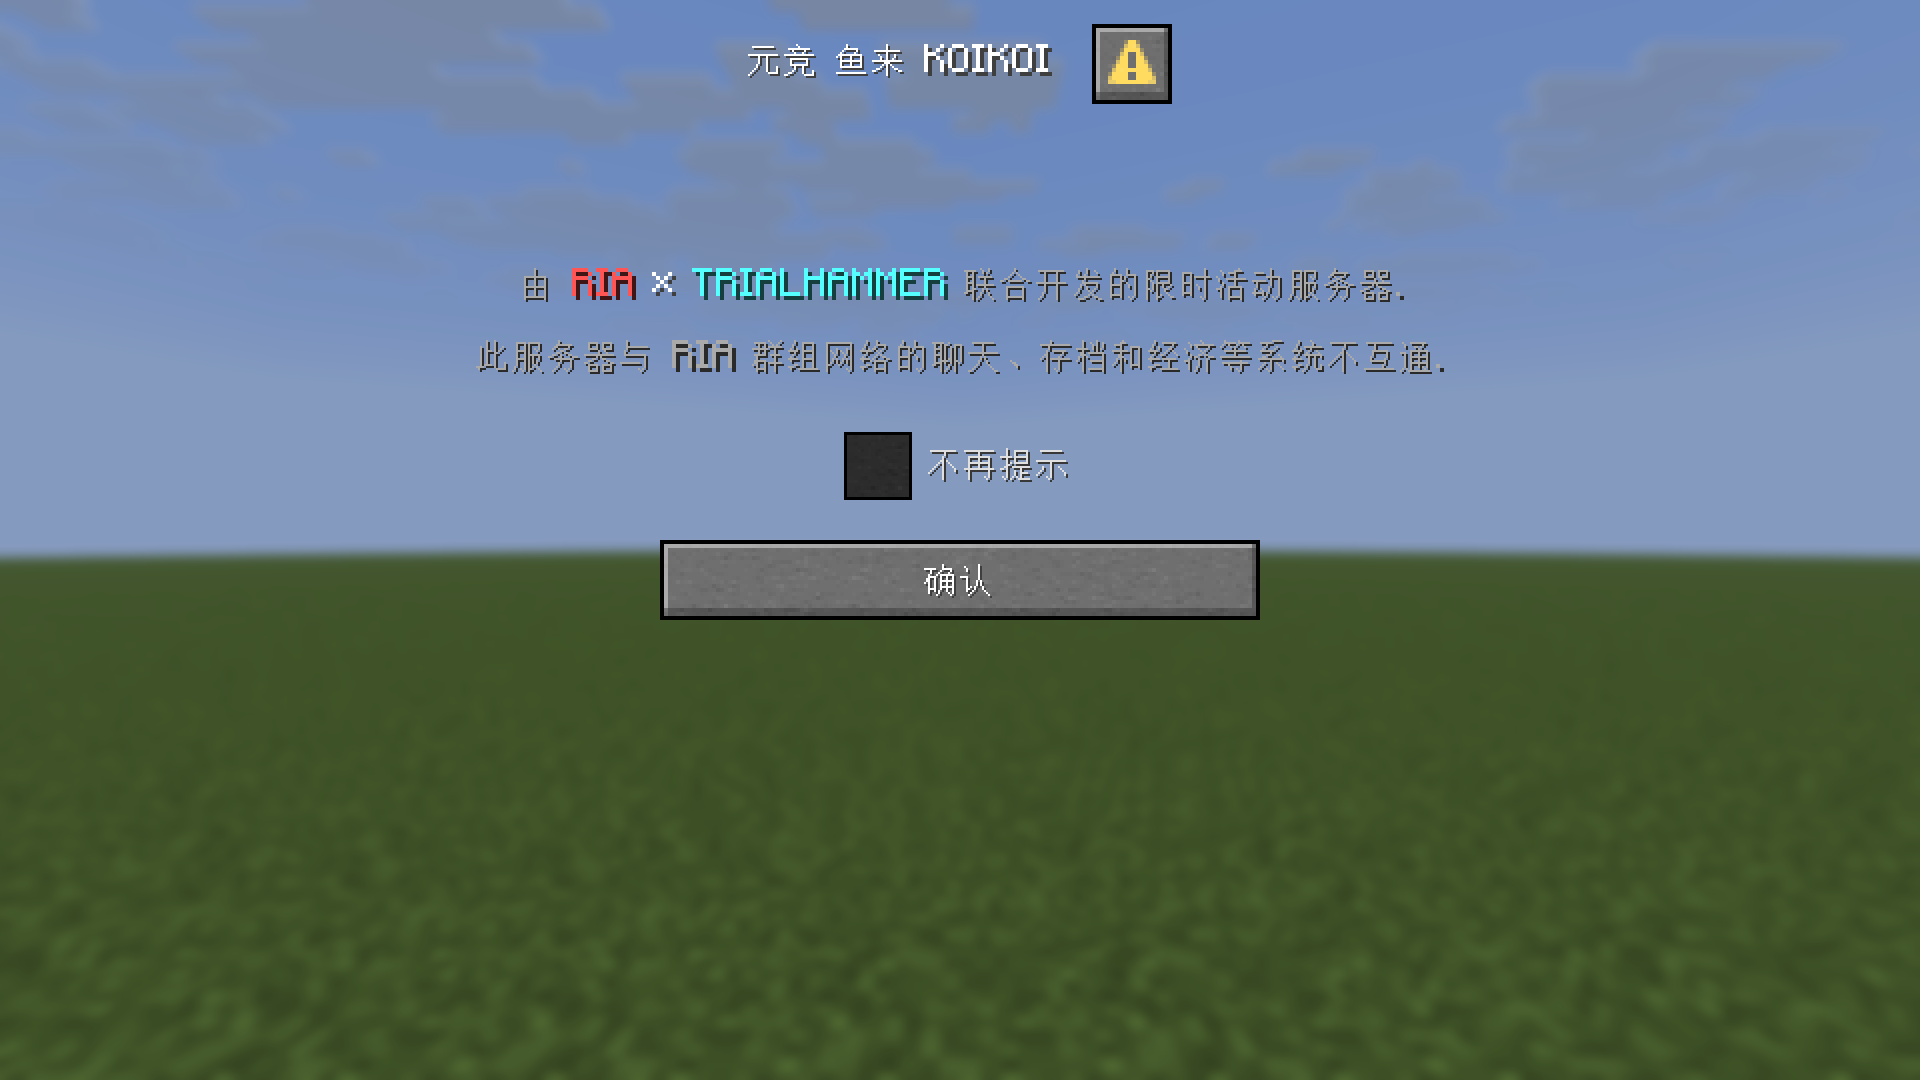
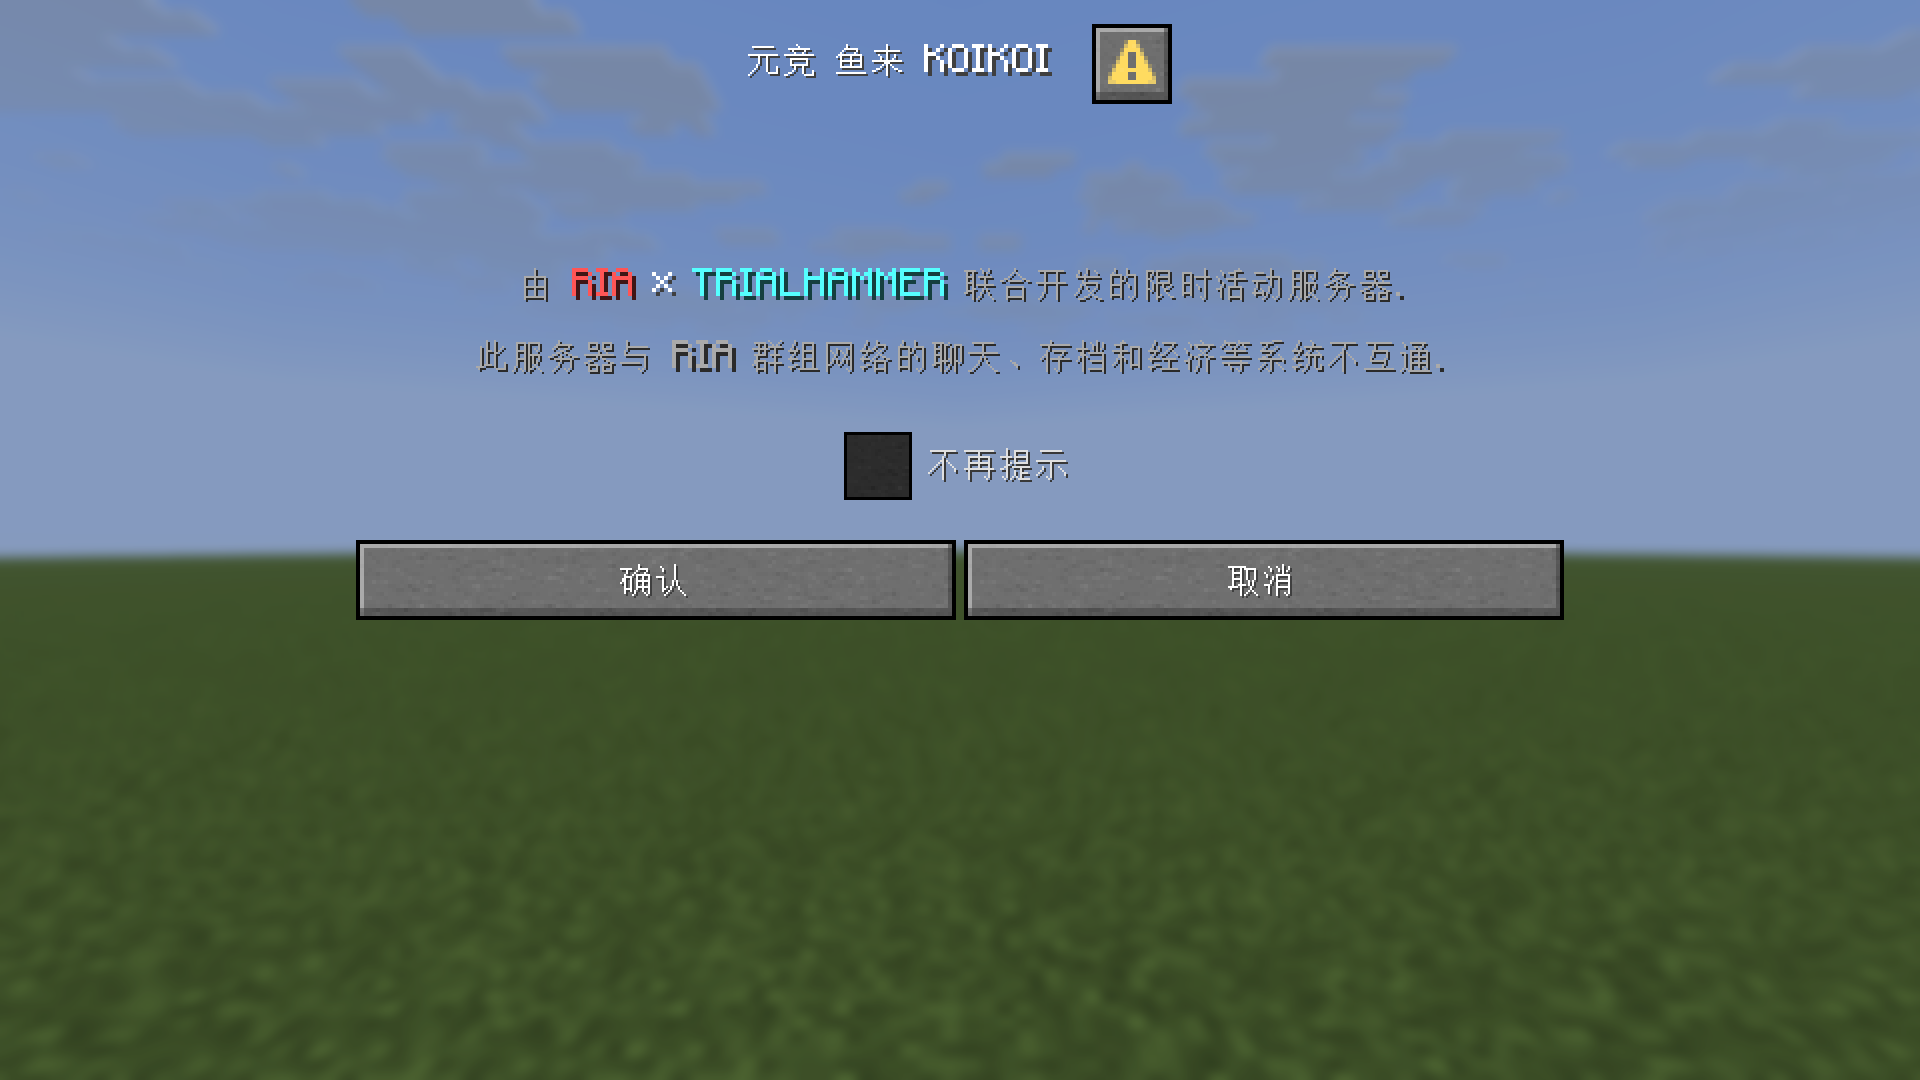
对话框增加取消按钮：取消即踢出玩家返回云端

diff --git a/src/main/java/red/ria/zthevent2611/message/NoticeDialogService.java b/src/main/java/red/ria/zthevent2611/message/NoticeDialogService.java
@@ -19,7 +19,7 @@ import red.ria.zthevent2611.data.NoticeStore;
 /**
  * 进服提示对话框：「不再提示」复选框 + 确认按钮。
  *
- * <p>对话框在配置应用时构建一次。确认按钮使用固定的自定义动作 {@link #CONFIRM_KEY}，
+ * <p>对话框在配置应用时构建一次。确认 / 取消按钮使用固定的自定义动作（{@link #CONFIRM_KEY}、{@link #CANCEL_KEY}），
  * 由 {@link NoticeDialogListener} 监听 {@code PlayerCustomClickEvent} 处理——这样同一个对话框
  * 可以被任意多玩家、任意多次点击，不像一次性点击回调那样在第一次点击后失效。
  */
@@ -30,6 +30,9 @@ public final class NoticeDialogService {
 
     /** 确认按钮的自定义动作标识。 */
     public static final Key CONFIRM_KEY = Key.key("zthevent2611", "notice_confirm");
+
+    /** 取消按钮的自定义动作标识。 */
+    public static final Key CANCEL_KEY = Key.key("zthevent2611", "notice_cancel");
 
     private final Plugin plugin;
     private final NoticeStore noticeStore;
@@ -115,6 +118,26 @@ public final class NoticeDialogService {
         }, null, 1L);
     }
 
+    /**
+     * 处理玩家点击取消：踢出玩家（由其所在群组网络自动带回云端），不开始跨服流程。
+     *
+     * <p>由 {@link NoticeDialogListener} 在收到 {@code PlayerCustomClickEvent} 时调用。
+     */
+    public void handleCancel(Player player) {
+        NoticeDialog current = config;
+        player.getScheduler().execute(plugin, () -> {
+            if (!player.isOnline()) {
+                return;
+            }
+            plugin.getLogger().info(() -> "玩家 " + player.getName() + " 取消了进服提示，已踢出（返回云端）");
+            if (current != null) {
+                player.kick(current.cancelKickMessage());
+            } else {
+                player.kick();
+            }
+        }, null, 1L);
+    }
+
     private void sendBodyToChat(Player player, NoticeDialog current) {
         if (current == null) {
             return;
@@ -128,6 +151,10 @@ public final class NoticeDialogService {
         ActionButton confirm = ActionButton.builder(initial.confirmLabel())
                 .tooltip(initial.confirmTooltip())
                 .action(DialogAction.customClick(CONFIRM_KEY, null))
+                .build();
+        ActionButton cancel = ActionButton.builder(initial.cancelLabel())
+                .tooltip(initial.cancelTooltip())
+                .action(DialogAction.customClick(CANCEL_KEY, null))
                 .build();
 
         DialogBase base = DialogBase.builder(initial.title())
@@ -144,7 +171,8 @@ public final class NoticeDialogService {
 
         return Dialog.create(factory -> factory.empty()
                 .base(base)
-                .type(DialogType.multiAction(List.of(confirm), null, 1)));
+                .type(DialogType.multiAction(List.of(confirm, cancel), null, 2)));
     }
 }
+
 

diff --git a/src/main/java/red/ria/zthevent2611/config/NoticeDialog.java b/src/main/java/red/ria/zthevent2611/config/NoticeDialog.java
@@ -8,8 +8,9 @@ import org.bukkit.configuration.file.FileConfiguration;
 /**
  * 进服提示对话框的配置。
  *
- * <p>对话框由正文、「不再提示」复选框（默认不勾选）和确认按钮组成；玩家确认后才开始跨服流程，
- * 因此提示不会在跨服过程中被聊天栏清掉。
+ * <p>对话框由正文、「不再提示」复选框（默认不勾选）、确认与取消按钮组成；
+ * 玩家确认后才开始跨服流程，因此提示不会在跨服过程中被聊天栏清掉；
+ * 点击取消会踢出玩家（由其所在群组网络自动带回云端），不开始跨服流程。
  *
  * @param title 对话框标题
  * @param bodyLines 对话框正文的每一行
@@ -20,7 +21,10 @@ import org.bukkit.configuration.file.FileConfiguration;
  * @param checkboxOnFalse 未勾选时提交的值
  * @param confirmLabel 确认按钮文字
  * @param confirmTooltip 确认按钮的悬停提示
- * @param canCloseWithEscape 是否允许按 Esc 关闭对话框；{@code false} 时必须点击确认
+ * @param cancelLabel 取消按钮文字
+ * @param cancelTooltip 取消按钮的悬停提示
+ * @param cancelKickMessage 点击取消后踢出玩家时显示的消息
+ * @param canCloseWithEscape 是否允许按 Esc 关闭对话框；{@code false} 时必须点击按钮
  */
 public record NoticeDialog(
         Component title,
@@ -32,6 +36,9 @@ public record NoticeDialog(
         String checkboxOnFalse,
         Component confirmLabel,
         Component confirmTooltip,
+        Component cancelLabel,
+        Component cancelTooltip,
+        Component cancelKickMessage,
         boolean canCloseWithEscape
 ) {
 
@@ -90,10 +97,17 @@ public record NoticeDialog(
                 "messages.dialog.confirm.label", "确认");
         Component confirmTooltip = PluginSettings.miniMessage(config,
                 "messages.dialog.confirm.tooltip", "<gray>点击确认后开始跨服流程.</gray>");
+        Component cancelLabel = PluginSettings.miniMessage(config,
+                "messages.dialog.cancel.label", "取消");
+        Component cancelTooltip = PluginSettings.miniMessage(config,
+                "messages.dialog.cancel.tooltip", "<gray>取消并返回云端.</gray>");
+        Component cancelKickMessage = PluginSettings.miniMessage(config,
+                "messages.dialog.cancel.kick-message", "<gray>已取消，正在返回云端.</gray>");
         boolean canCloseWithEscape = config.getBoolean("messages.dialog.can-close-with-escape", false);
 
         return new NoticeDialog(title, bodyLines, checkboxKey, checkboxLabel, checkboxInitial,
-                checkboxOnTrue, checkboxOnFalse, confirmLabel, confirmTooltip, canCloseWithEscape);
+                checkboxOnTrue, checkboxOnFalse, confirmLabel, confirmTooltip,
+                cancelLabel, cancelTooltip, cancelKickMessage, canCloseWithEscape);
     }
 
     private static boolean isBlankLine(String line) {

diff --git a/src/main/java/red/ria/zthevent2611/listener/NoticeDialogListener.java b/src/main/java/red/ria/zthevent2611/listener/NoticeDialogListener.java
@@ -3,6 +3,7 @@ package red.ria.zthevent2611.listener;
 import io.papermc.paper.connection.PlayerGameConnection;
 import io.papermc.paper.dialog.DialogResponseView;
 import io.papermc.paper.event.player.PlayerCustomClickEvent;
+import net.kyori.adventure.key.Key;
 import org.bukkit.entity.Player;
 import org.bukkit.event.EventHandler;
 import org.bukkit.event.EventPriority;
@@ -11,10 +12,11 @@ import red.ria.zthevent2611.flow.TransferFlowManager;
 import red.ria.zthevent2611.message.NoticeDialogService;
 
 /**
- * 处理进服提示对话框的确认按钮。
+ * 处理进服提示对话框的确认与取消按钮。
  *
  * <p>对话框按钮使用固定的自定义动作标识，通过 {@code PlayerCustomClickEvent} 接收点击；
  * 因此同一个对话框可以被任意多玩家、任意多次点击，不受一次性回调限制。
+ * 确认后开始跨服流程；取消则踢出玩家（由其所在群组网络自动带回云端）。
  */
 public final class NoticeDialogListener implements Listener {
 
@@ -28,7 +30,13 @@ public final class NoticeDialogListener implements Listener {
 
     @EventHandler(priority = EventPriority.NORMAL)
     public void onCustomClick(PlayerCustomClickEvent event) {
-        if (!NoticeDialogService.CONFIRM_KEY.equals(event.getIdentifier())) {
+        Key identifier = event.getIdentifier();
+        boolean confirm;
+        if (NoticeDialogService.CONFIRM_KEY.equals(identifier)) {
+            confirm = true;
+        } else if (NoticeDialogService.CANCEL_KEY.equals(identifier)) {
+            confirm = false;
+        } else {
             return;
         }
         if (!(event.getCommonConnection() instanceof PlayerGameConnection connection)) {
@@ -39,8 +47,12 @@ public final class NoticeDialogListener implements Listener {
         if (player == null) {
             return;
         }
+        if (!confirm) {
+            noticeDialogs.handleCancel(player);
+            return;
+        }
         DialogResponseView response = event.getDialogResponseView();
-        boolean confirmed = noticeDialogs.isCheckboxChecked(response);
-        noticeDialogs.handleConfirm(player, confirmed, () -> flows.startAfterConfirm(player));
+        boolean dismissed = noticeDialogs.isCheckboxChecked(response);
+        noticeDialogs.handleConfirm(player, dismissed, () -> flows.startAfterConfirm(player));
     }
 }

diff --git a/src/test/java/red/ria/zthevent2611/config/NoticeDialogTest.java b/src/test/java/red/ria/zthevent2611/config/NoticeDialogTest.java
@@ -37,6 +37,9 @@ class NoticeDialogTest {
                 "false",
                 Component.text("确认"),
                 Component.text("提示"),
+                Component.text("取消"),
+                Component.text("取消提示"),
+                Component.text("已取消"),
                 false);
 
         Component expected = Component.empty()
@@ -66,6 +69,21 @@ class NoticeDialogTest {
         assertEquals("true", dialog.checkboxOnTrue());
         assertEquals("false", dialog.checkboxOnFalse());
         assertEquals("第二行", MINI_MESSAGE.serialize(dialog.bodyLines().get(1)));
+    }
+
+    @Test
+    void loadsCancelButtonDefaults() {
+        YamlConfiguration config = parse("""
+                messages:
+                  dialog:
+                    body: '正文'
+                """);
+
+        NoticeDialog dialog = NoticeDialog.load(config);
+
+        assertEquals(Component.text("取消"), dialog.cancelLabel());
+        assertEquals(MINI_MESSAGE.deserialize("<gray>已取消，正在返回云端.</gray>"),
+                dialog.cancelKickMessage());
     }
 
     @Test

diff --git a/README.md b/README.md
@@ -9,9 +9,10 @@
 ## 功能特性
 
 - 玩家进服后自动切换旁观模式（模式可配置，也可关闭进服自动流程）。
-- 进服弹出提示对话框：活动说明 + 「不再提示」复选框（默认不勾选）+ 确认按钮。
-  默认不允许 Esc 关闭，必须点击确认；选择会按玩家 UUID 记录在独立的 `player-data.yml` 中，重启后依然生效。
+- 进服弹出提示对话框：活动说明 + 「不再提示」复选框（默认不勾选）+ 确认 / 取消按钮。
+  默认不允许 Esc 关闭；选择会按玩家 UUID 记录在独立的 `player-data.yml` 中，重启后依然生效。
 - 玩家确认后才开始跨服流程，聊天栏显示「正在进行跨服......」（前后空行数量可配置）。
+- 点击「取消」不开始跨服流程，直接踢出玩家；客户端会随所在群组网络自动回到云端。
 - 按配置的间隔执行一整组命令，例如每 10 秒一次、最多 3 次；命令由控制台执行，
   支持 `{player}`（玩家名）与 `{uuid}`（玩家 UUID）占位符。
 - 超过「间隔 × 次数」仍未离开本服时踢出玩家，踢出消息可配置。
@@ -29,7 +30,7 @@
 
 ## 安装与快速开始
 
-1. 构建插件（见下文「构建」）或取得 `ZthEvent2611Oj233Helper-1.1.1.jar`。
+1. 构建插件（见下文「构建」）或取得 `ZthEvent2611Oj233Helper-1.2.0.jar`。
 2. 将 jar 放入服务端的 `plugins/` 目录并启动一次服务器。
 3. 编辑 `plugins/ZthEvent2611Oj233Helper/config.yml`，把 `flow.commands` 改成实际的跨服命令。
    使用 OhMyTransfer 时通常是：
@@ -49,6 +50,7 @@
 | --- | --- |
 | 玩家进服 | 切换为旁观模式，弹出活动说明对话框 |
 | 点击「确认」 | 若勾选了「不再提示」则记录下来；聊天栏显示「正在进行跨服......」，执行第 1 次跨服命令 |
+| 点击「取消」 | 不开始跨服，直接踢出玩家（显示配置的取消消息），客户端自动回到云端 |
 | 确认后 10 秒 | 第 2 次执行跨服命令 |
 | 确认后 20 秒 | 第 3 次执行跨服命令 |
 | 确认后 30 秒 | 玩家仍在本服则踢出，并显示配置的踢出消息 |
@@ -89,6 +91,9 @@
 | `messages.dialog.checkbox.on-true` / `on-false` | `true` / `false` | 勾选、未勾选时提交的值 |
 | `messages.dialog.confirm.label` | `确认` | 确认按钮文字 |
 | `messages.dialog.confirm.tooltip` | 点击确认后开始跨服流程 | 确认按钮的悬停提示 |
+| `messages.dialog.cancel.label` | `取消` | 取消按钮文字 |
+| `messages.dialog.cancel.tooltip` | 取消并返回云端 | 取消按钮的悬停提示 |
+| `messages.dialog.cancel.kick-message` | `已取消，正在返回云端.` | 点击取消后踢出玩家时显示的消息 |
 | `messages.dialog.can-close-with-escape` | `false` | 是否允许 Esc 关闭对话框；`false` 时必须点击确认 |
 
 ## 命令与权限
@@ -120,7 +125,7 @@ notice-hidden:
 ./gradlew test         # 只运行单元测试
 ```
 
-产物位于 `build/libs/ZthEvent2611Oj233Helper-1.1.1.jar`。
+产物位于 `build/libs/ZthEvent2611Oj233Helper-1.2.0.jar`。
 默认使用 Paper 26.1.2 的 API 编译；如需针对其他版本编译，可覆盖 Gradle 属性：
 
 ```bash
@@ -143,6 +148,7 @@ notice-hidden:
 
 **想临时关闭进服自动流程？**
 把 `flow.start-on-join` 设为 `false`，需要时用 `/zth-event start <player>` 手动触发。
+
 
 
 
